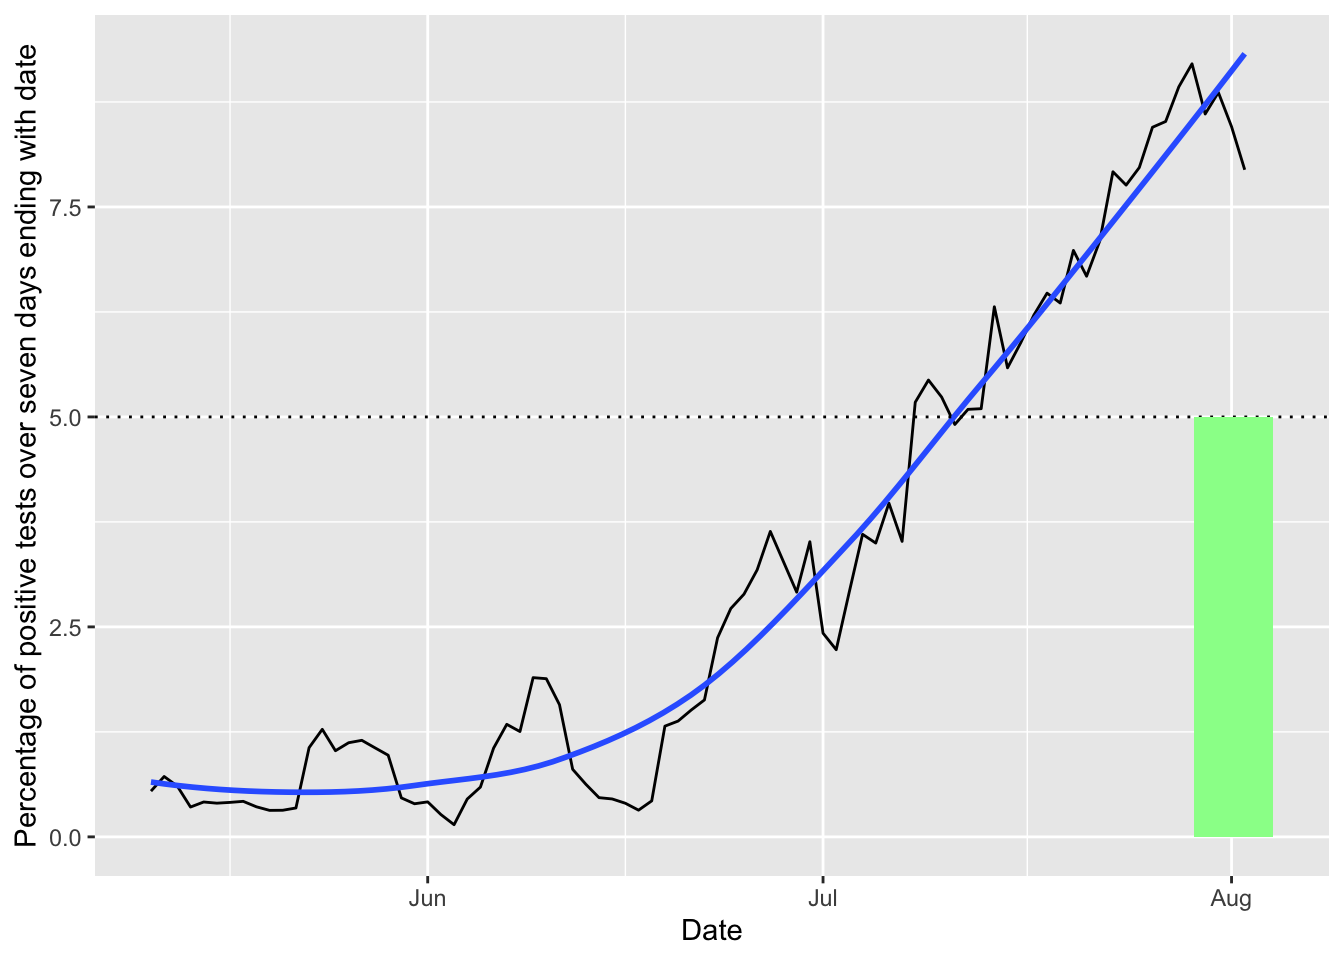
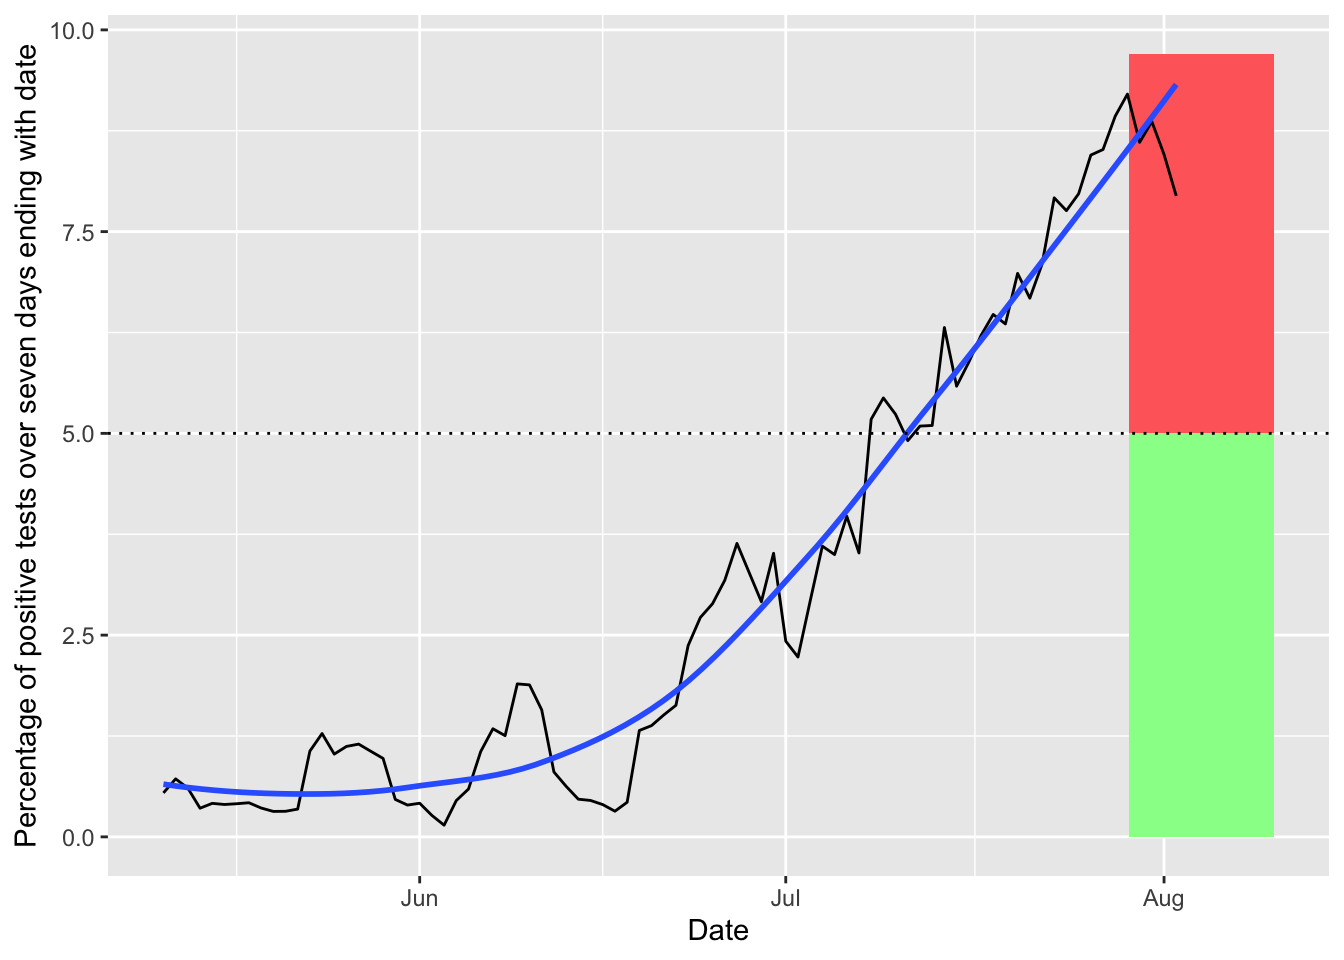
updating site

diff --git a/docs/covid.html b/docs/covid.html
@@ -423,7 +423,7 @@ $(document).ready(function () {
 <li>Info about cases at <a href="#ut">U. of Tennessee, Knoxville</a> (using public information only)</li>
 <li><a href="#webcams">Webcams</a> showing activity at local sites, though not quite at the resolution to point to mask usage or not</li>
 </ul>
-<p>The following plots are created in R using data from <a href="https://covid19datahub.io" class="uri">https://covid19datahub.io</a> (Guidotti, E., Ardia, D., (2020), “COVID-19 Data Hub”, Working paper, doi: 10.13140/RG.2.2.11649.81763), as well as information from Google and the <a href="https://www.tn.gov/health/cedep/ncov/data/downloadable-datasets.html">state of Tennessee dataset page</a> and plotting and analysis using the <code>forecast</code>, <code>ggplot2</code>, <code>reshape2</code>, and <code>dplyr</code> packages. Plots created on 2020-08-03 09:00:28. I use <code>ggplot2</code>’s <code>geom_smooth()</code> function for the smoothed regression plots with its default formula, which uses loess smoothing for this many points. This is not based on a model of disease spread or anything similarly sophisticated, just drawing a smooth curve to summarize noisy points (see <a href="https://www.itl.nist.gov/div898/handbook/pmd/section1/pmd144.htm">here</a> for more details).</p>
+<p>The following plots are created in R using data from <a href="https://covid19datahub.io" class="uri">https://covid19datahub.io</a> (Guidotti, E., Ardia, D., (2020), “COVID-19 Data Hub”, Working paper, doi: 10.13140/RG.2.2.11649.81763), as well as information from Google and the <a href="https://www.tn.gov/health/cedep/ncov/data/downloadable-datasets.html">state of Tennessee dataset page</a> and plotting and analysis using the <code>forecast</code>, <code>ggplot2</code>, <code>reshape2</code>, and <code>dplyr</code> packages. Plots created on 2020-08-03 09:21:13. I use <code>ggplot2</code>’s <code>geom_smooth()</code> function for the smoothed regression plots with its default formula, which uses loess smoothing for this many points. This is not based on a model of disease spread or anything similarly sophisticated, just drawing a smooth curve to summarize noisy points (see <a href="https://www.itl.nist.gov/div898/handbook/pmd/section1/pmd144.htm">here</a> for more details).</p>
 <h2 id="cases">
 Cases
 </h2>
@@ -449,7 +449,7 @@ Testing
 <h2 id="schooling">
 Schooling
 </h2>
-<p>Many of the local schools are adopting a hybrid approach, where families can choose whether to send their kids to school or do online learning (sometimes with reduced options). The <i>New York Times</i> <a href="https://www.nytimes.com/2020/07/14/us/coronavirus-schools-fall.html">reports</a> on July 14, 2020, that, “As education leaders decide whether to reopen classrooms in the fall amid a raging pandemic, many are looking to a standard generally agreed upon among epidemiologists: To control community spread of the coronavirus, the average daily infection rate among those who are tested should not exceed 5 percent.” Many districts nationally are not hitting that goal, but a question is whether local ones will. The first district to open in our area will be Oak Ridge public schools, who have a start date for students in person on July 29, 2020. Following the procedure of the <i>NYT</i>‘s article, I am plotting the seven day average of positivity rate for tests for the counties including Oak Ridge’s counties (Roane and Anderson). The black line is the seven day rolling mean (total new confirmed / total new tests, not a mean of this ratio per day), the blue line is this smoothed, the dotted line is the 5% threshold, and the green rectangle is the first week of school – the positivity should be in that rectangle to meet epidemiologists’ goals. Oak Ridge is giving families options of whether to enroll their children in online or in person school: their plan, and the way to choose either mode, is <a href="https://www.ortn.edu/reopening-plan-2020-2021/">here</a>. They have updated their in person plan to require masks when possible but not social distancing; when individuals test positive, the possibly affected parts of the building will be closed for 2-5 days. We’ve opted for the online option for our family.</p>
+<p>Many of the local schools are adopting a hybrid approach, where families can choose whether to send their kids to school or do online learning (sometimes with reduced options). The <i>New York Times</i> <a href="https://www.nytimes.com/2020/07/14/us/coronavirus-schools-fall.html">reports</a> on July 14, 2020, that, “As education leaders decide whether to reopen classrooms in the fall amid a raging pandemic, many are looking to a standard generally agreed upon among epidemiologists: To control community spread of the coronavirus, the average daily infection rate among those who are tested should not exceed 5 percent.” Many districts nationally are not hitting that goal, but a question is whether local ones will. The first district to open in our area was Oak Ridge public schools, who had a start date for students in person on July 29, 2020. Following the procedure of the <i>NYT</i>‘s article, I am plotting the seven day average of positivity rate for tests for the counties including Oak Ridge’s counties (Roane and Anderson). The black line is the seven day rolling mean (total new confirmed / total new tests, not a mean of this ratio per day), the blue line is this smoothed, the dotted line is the 5% threshold, and the green rectangle is the goal and starts at the start of school – the positivity should be in that rectangle to meet epidemiologists’ goals. Oak Ridge is giving families options of whether to enroll their children in online or in person school: their plan, and the way to choose either mode, is <a href="https://www.ortn.edu/reopening-plan-2020-2021/">here</a>. They have updated their in person plan to require masks when possible but not social distancing; when individuals test positive, the possibly affected parts of the building will be closed for 2-5 days. We’ve opted for the online option for our family.</p>
 <p><img src="covid_files/figure-html/oakridge7-1.png" width="672" /></p>
 <p>Harvard’s Edmond J. Safra Center for Ethics and the Harvard Global Health Institute have created (July 19, 2020) <a href="https://globalhealth.harvard.edu/path-to-zero-schools-achieving-pandemic-resilient-teaching-and-learning-spaces/">guidelines for schools reopening</a> (see also their <a href="https://globalepidemics.org/wp-content/uploads/2020/07/pandemic_resilient_schools_briefing_7.19.20.pdf">full report PDF</a>). They distinguish students by age group: “With COVID-19, people 18 and younger have far lower risk of death, hospitalization, and severe outcomes and are also less likely to get infected. Within this group, students in the younger age band of 10 and under also transmit at lower rates. This last point about lower rates of transmission may also pertain to people 15 and younger, a point that research should clarify in coming weeks. Keeping levels of risk low for young children via pandemic resilient teaching and learning spaces is more readily achievable than doing so for high school age students and the adult educators and staff in the school building.” They provide suggestions on building ventilation, social distancing, and more, and mention the utility of looking at multiple metrics (such as positivity rate, hospitalization, and more), but focus on daily new cases per 100,000 people (with a caution about missing cases if testing is not adequate; for example, if positivity rate is above 10%). The plot below has summaries of their recommendations for priority for which grade levels can meet in person, <strong>if there are conditions for pandemic resistant teaching and learning</strong>. The black line is the rolling seven day average of new cases per day for the counties containing Oak Ridge (Roane and Anderson), the blue line is this smoothed.</p>
 <p><img src="covid_files/figure-html/harvardstandards-1.png" width="672" /></p>
